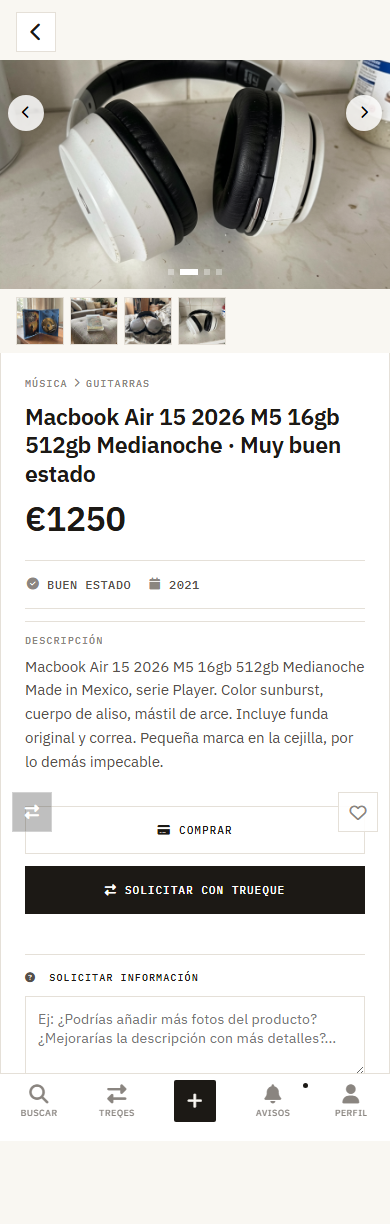
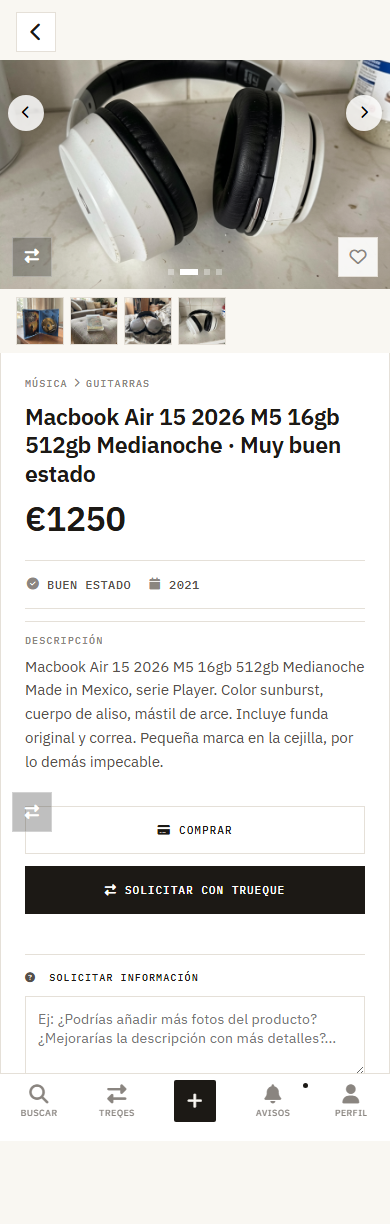
fix: wish/trade buttons on image, arrows type=button prevent scroll

Changed region(s): [[0.8615, 0.1863, 0.9846, 0.2484], [0.0308, 0.1863, 0.1538, 0.2484], [0.8615, 0.652, 0.9538, 0.683]]

diff --git a/apps/web/src/pages/product/ProductDetailPage.tsx b/apps/web/src/pages/product/ProductDetailPage.tsx
@@ -33,10 +33,10 @@ export function ProductDetailPage() {
       body = body.replace(/<script[\s\S]*?<\/script>/g, "");
       body = body.replace(/\s+on\w+="[^"]*"/g, "");
 
-      // Replace gallery
+      // Replace gallery — include wish + trade buttons
       if (photos.length > 0) {
         const gs = body.indexOf('<div class="gallery" id="gallery">');
-        const after = body.indexOf('<button class="gallery-wish"');
+        const after = body.indexOf('<button class="gallery-trade"');
         const info = body.indexOf('<div class="item-info"');
         const end = (after > gs ? after : 99999) < (info > gs ? info : 99999) ? after : info;
         if (gs >= 0 && end > gs) {
@@ -115,8 +115,10 @@ function buildGallery(photos: string[]): string {
   return `<div class="gallery" id="gallery" style="position:relative;overflow:hidden">
     <div class="gallery-slides" id="gallerySlides" style="position:relative;overflow:hidden">${slides}</div>
     <div class="gallery-dots" style="position:absolute;bottom:14px;left:50%;transform:translateX(-50%);display:flex;gap:6px;z-index:10">${dots}</div>
+    <button class="gallery-wish" id="wishBtn" style="position:absolute;bottom:12px;right:12px;z-index:10;width:40px;height:40px;background:rgba(255,255,255,0.9);border:1px solid var(--border);color:var(--text-dim);display:flex;align-items:center;justify-content:center;font-size:1rem;cursor:pointer"><i class="far fa-heart"></i></button>
+    <button class="gallery-trade" id="tradeBtn" style="position:absolute;bottom:12px;left:12px;z-index:10;width:40px;height:40px;background:rgba(0,0,0,0.25);border:1px solid rgba(255,255,255,0.3);color:#FFF;display:flex;align-items:center;justify-content:center;font-size:.85rem;cursor:pointer"><i class="fas fa-exchange-alt"></i></button>
+    <button type="button" onclick="event.stopPropagation();TreG.goTo((TreG.current-1+${photos.length})%${photos.length})" style="position:absolute;left:8px;top:40%;transform:translateY(-50%);z-index:20;width:36px;height:36px;border-radius:50%;background:rgba(255,255,255,0.85);border:none;cursor:pointer;display:flex;align-items:center;justify-content:center"><i class="fas fa-chevron-left"></i></button>
+    <button type="button" onclick="event.stopPropagation();TreG.goTo((TreG.current+1)%${photos.length})" style="position:absolute;right:8px;top:40%;transform:translateY(-50%);z-index:20;width:36px;height:36px;border-radius:50%;background:rgba(255,255,255,0.85);border:none;cursor:pointer;display:flex;align-items:center;justify-content:center"><i class="fas fa-chevron-right"></i></button>
     <div class="gallery-thumbs" style="display:flex;gap:6px;padding:8px 16px;overflow-x:auto">${thumbs}</div>
-    <button type="button" onclick="TreG.goTo((TreG.current-1+${photos.length})%${photos.length})" style="position:absolute;left:8px;top:40%;transform:translateY(-50%);z-index:20;width:36px;height:36px;border-radius:50%;background:rgba(255,255,255,0.85);border:none;cursor:pointer;display:flex;align-items:center;justify-content:center"><i class="fas fa-chevron-left"></i></button>
-    <button type="button" onclick="TreG.goTo((TreG.current+1)%${photos.length})" style="position:absolute;right:8px;top:40%;transform:translateY(-50%);z-index:20;width:36px;height:36px;border-radius:50%;background:rgba(255,255,255,0.85);border:none;cursor:pointer;display:flex;align-items:center;justify-content:center"><i class="fas fa-chevron-right"></i></button>
   </div>`;
 }